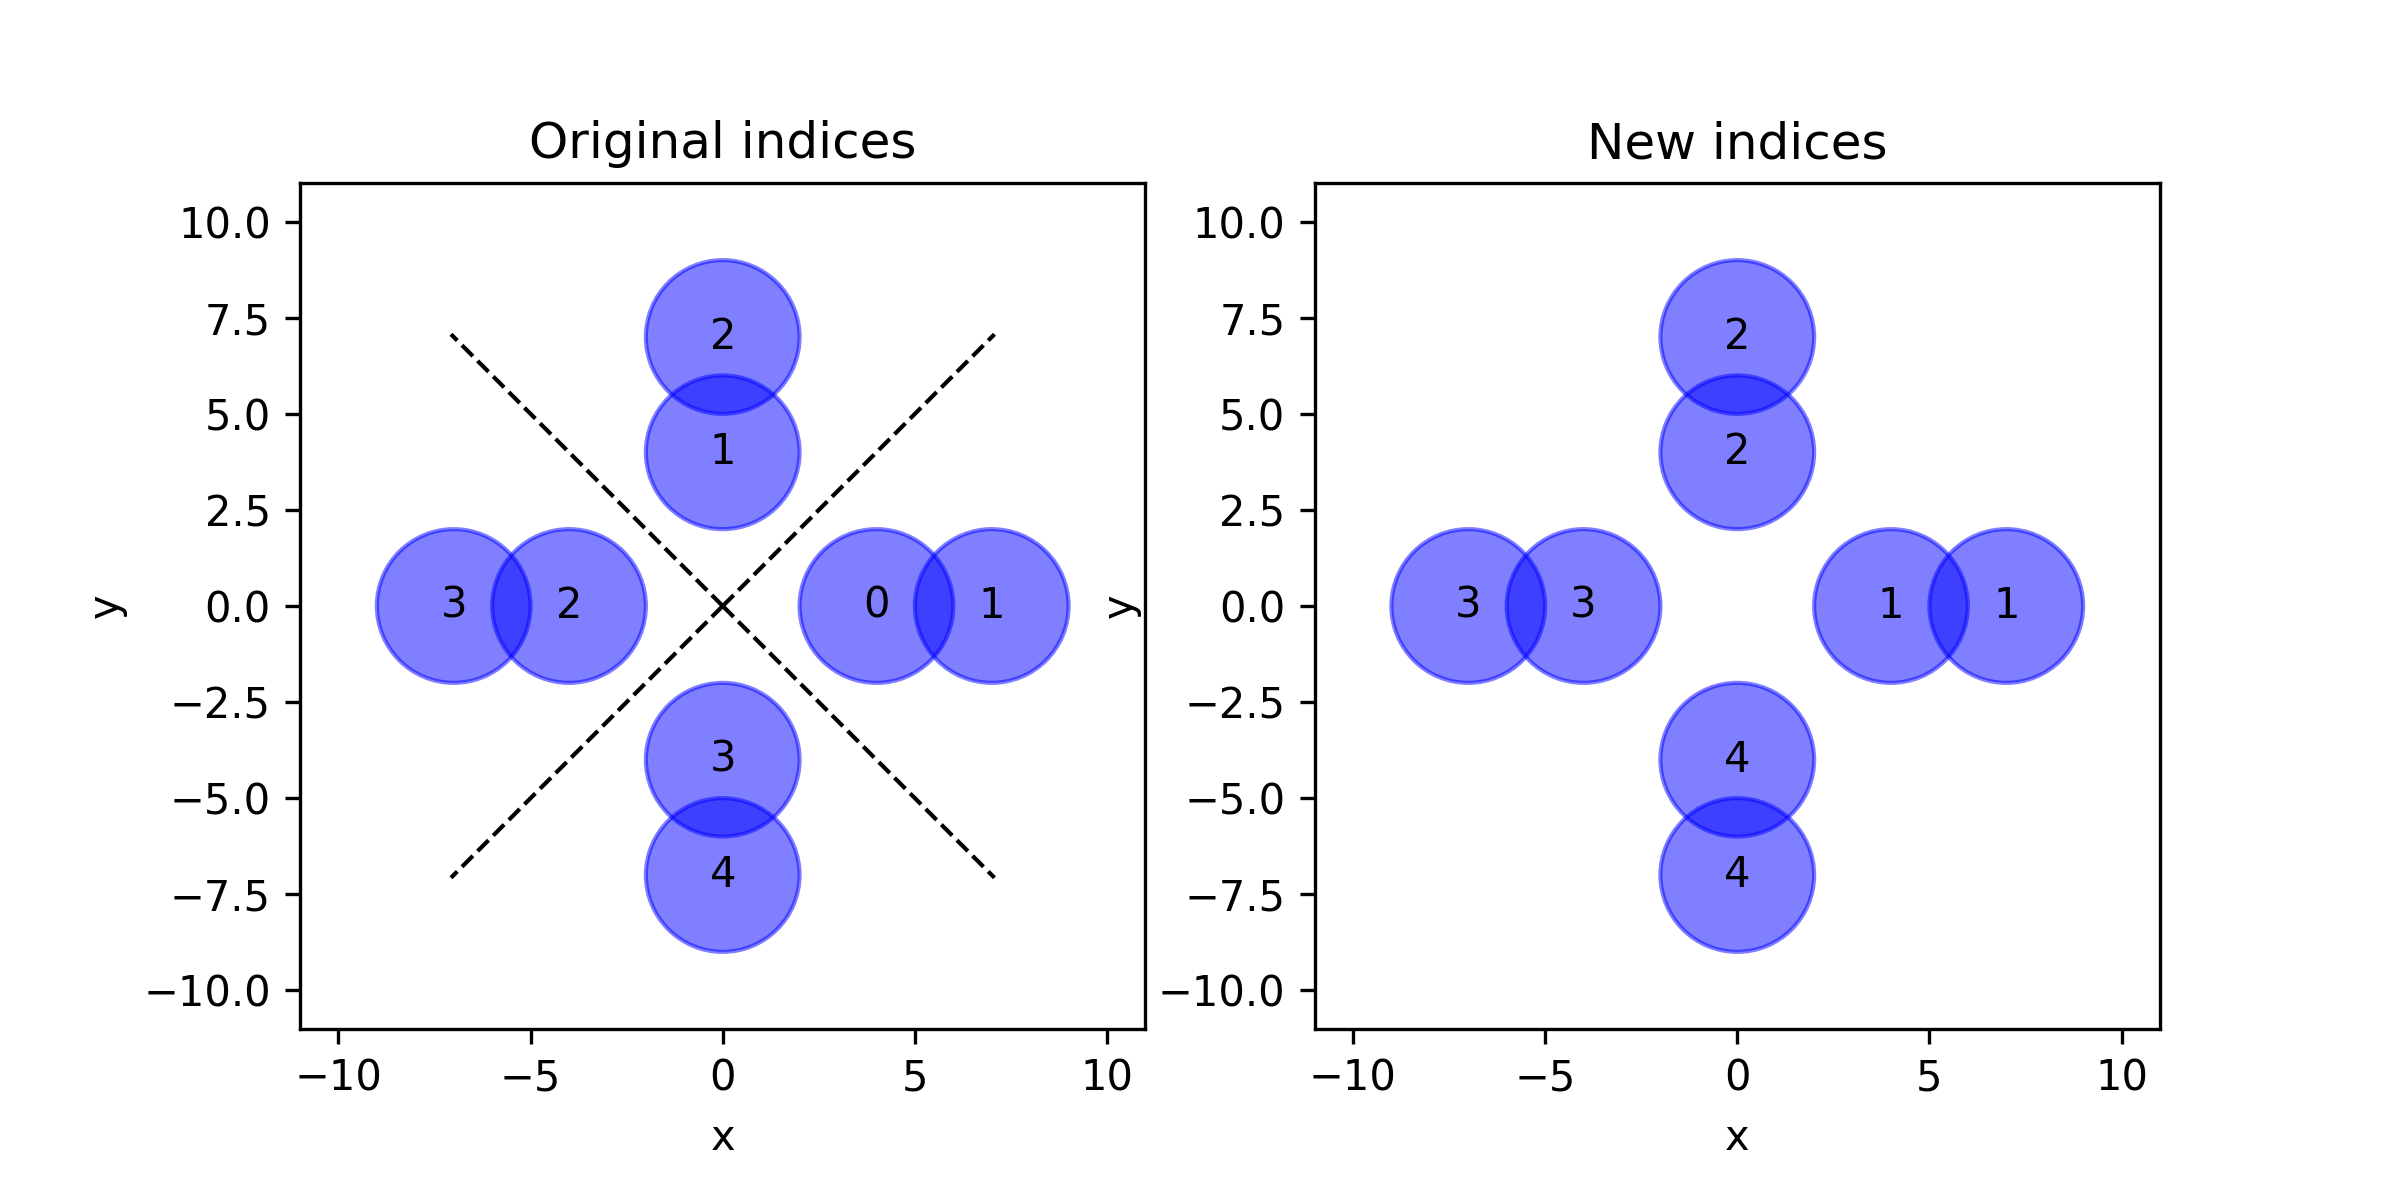
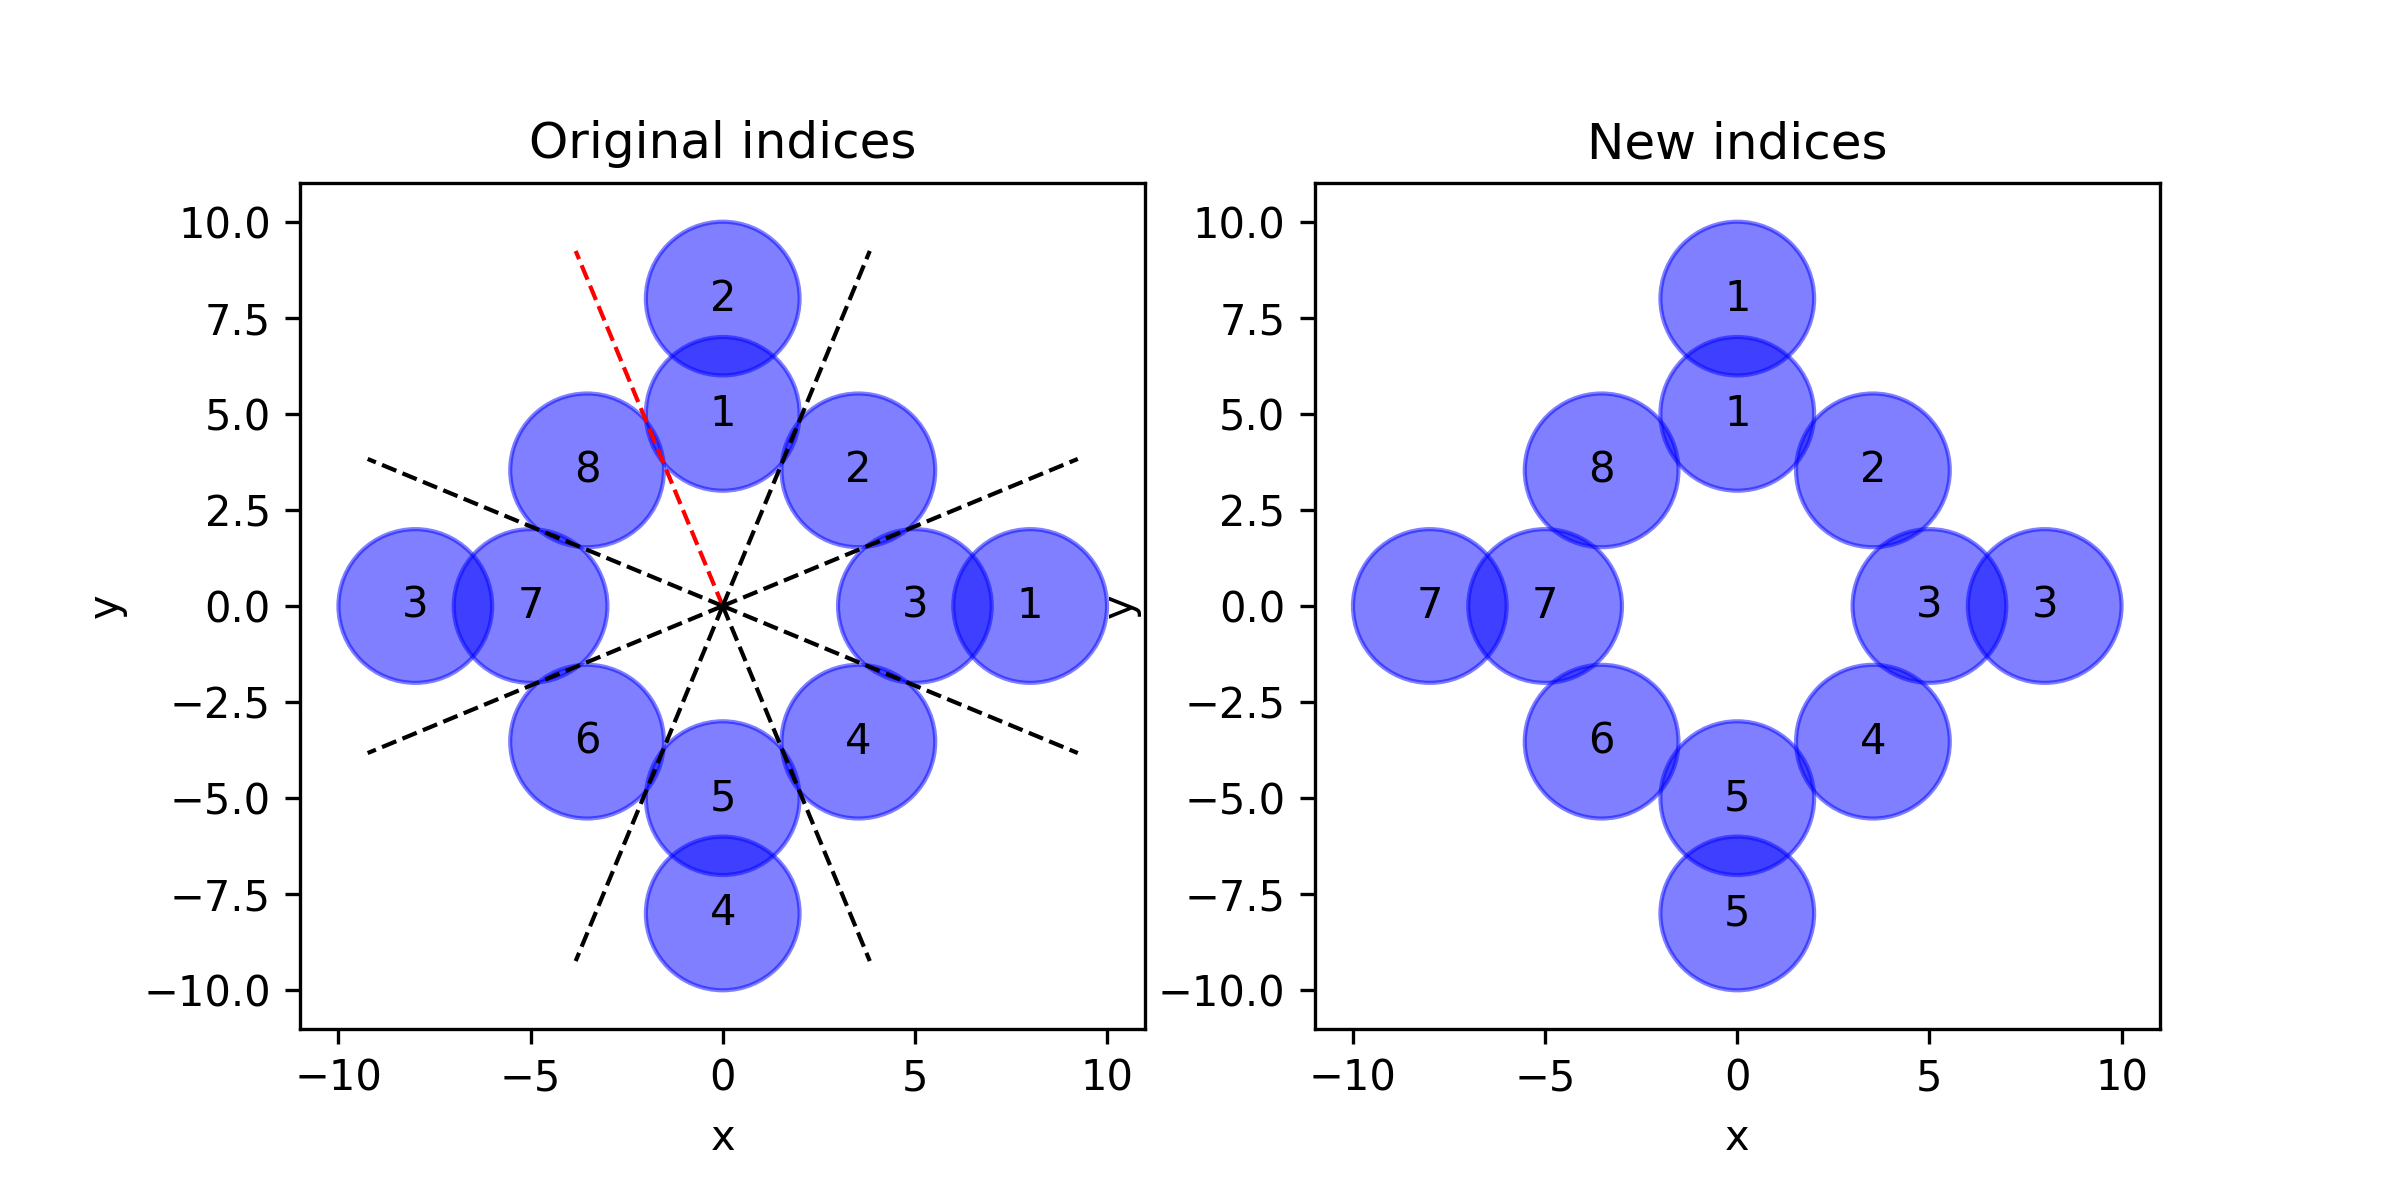
ryan comments

Changed region(s): [[0.125, 0.185, 0.4688, 0.8325], [0.5625, 0.185, 0.9062, 0.8325]]

diff --git a/aopy/utils/base.py b/aopy/utils/base.py
@@ -913,13 +913,15 @@ def scale_data_by_p_value(data, p, k=100, p0=0.08):
     w = 1. / (1. + np.exp(-k * (p0 - p)))
     return data * w
 
-def bin_vectors(vectors, start_angle=-np.pi/4, bins=4):
+def digitize_by_angle(vectors, start_angle=np.pi/4, clockwise=True, bins=4):
     '''
     Bin 2D vectors into angular bins.
 
     Args:
         vectors (ntarg): List or array of 2D vectors.
         start_angle (float, optional): Starting angle for binning in radians. Default is -pi/4.
+        clockwise (bool, optional): If True, bins are assigned in clockwise order. The
+            first bin is ahead of the start angle in this direction. Default is True.
         bins (int, optional): Number of angular bins. Default is 4.
 
     Returns:
@@ -928,20 +930,26 @@ def bin_vectors(vectors, start_angle=-np.pi/4, bins=4):
     vectors = np.array(vectors)
     angles = np.arctan2(vectors[:,1], vectors[:,0])
     angles = (angles - start_angle) % (2 * np.pi) - np.pi
+    if clockwise:
+        angles = -angles
     bin_edges = np.linspace(-np.pi, np.pi, bins+1)
     return np.digitize(angles, bin_edges)
 
-def reindex_targets(target_locations, target_idxs, start_angle=-np.pi/4, bins=4, debug=True):
+def reindex_targets(target_locations, target_idxs, start_angle=5*np.pi/8, 
+                    clockwise=True, bins=8, debug=True):
     '''
-    Reindex target indices based on their angular location.
+    Reindex target indices based on their angular location. Default behavior
+    is to place target 1 at the top and index a total of 8 targets clockwise.
     
     Args:
         target_locations (ntarg, 2): List or array of 2D target locations
         target_idxs (ntarg,): Original target indices
-        start_angle (float, optional): Starting angle for binning in radians. Default is -
-        bins (int, optional): Number of angular bins. Default is 4.
-        debug (bool, optional): If True, plot the original and new target indices. Default
-        
+        start_angle (float, optional): Starting angle for binning in radians. Default is -3pi/4.
+        clockwise (bool, optional): If True, bins are assigned in clockwise order. The
+            first bin is ahead of the start angle in this direction. Default is True.
+        bins (int, optional): Number of angular bins. Default is 8.
+        debug (bool, optional): If True, plot the original and new target indices. Default is True.
+
     Returns:
         (ntarg,) int: Array of new bin indices corresponding to each target location.
     
@@ -952,14 +960,26 @@ def reindex_targets(target_locations, target_idxs, start_angle=-np.pi/4, bins=4,
         
         .. code-block:: python
         
-            target_locations = np.array([[4,0], [0,4], [-4,0], [0,-4],
-                                    [7,0], [0,7], [-7,0], [0,-7]])
-            target_idxs = np.array([0,1,2,3,1,2,3,4])
-            reindex_targets(target_locations, target_idxs, start_angle=-np.pi/4, bins=4)
+            target_locations = [[5,0], [3.53, 3.53], [0,5], [-3.53,3.53],
+                                        [-5,0], [-3.53,-3.53], [0,-5], [3.53,-3.53],
+                                        [8,0], [0,8], [-8,0], [0,-8]]
+            target_idxs = np.array([3,2,1,8,7,6,5,4,1,2,3,4])
+            reindex_targets(target_locations, target_idxs)
 
         .. image:: _images/test_reindex_targets.png
+
+        .. code-block:: python
+        
+            target_locations = [[4,0], [0,4], [-4,0], [0,-4],
+                                        [7,0], [0,7], [-7,0], [0,-7]]
+            target_idxs = np.array([0,1,2,3,1,2,3,4])
+            reindex_targets(target_locations, target_idxs, 
+                            start_angle=np.pi/4, clockwise=False, bins=4)
+
+        .. image:: _images/test_reindex_targets_ccw.png
     '''
-    new_idx = bin_vectors(target_locations, start_angle=start_angle, bins=bins)
+    new_idx = digitize_by_angle(target_locations, start_angle=start_angle, 
+                                clockwise=clockwise, bins=bins)
     if debug:
         plt.figure(figsize=(8,4))
         
@@ -968,7 +988,6 @@ def reindex_targets(target_locations, target_idxs, start_angle=-np.pi/4, bins=4,
         visualization.plot_targets(target_locations, target_radius=2, bounds=(-10,10,-10,10))
         locs = np.array([np.array(t) for t in target_locations])
         target_locs_and_idx = np.hstack([locs, np.array(target_idxs).reshape(-1,1)])
-        print(target_locs_and_idx)
         unique_targs = np.unique(target_locs_and_idx, axis=0)
         for idx in range(len(unique_targs)):
             plt.text(*unique_targs[idx][:2], int(unique_targs[idx][-1]), fontsize=10, ha='center', va='center')
@@ -976,15 +995,18 @@ def reindex_targets(target_locations, target_idxs, start_angle=-np.pi/4, bins=4,
 
         # Vector bins
         for idx in range(bins):
-            angle = start_angle + (2*np.pi/bins)*idx
-            plt.plot([0, 10*np.cos(angle)], [0, 10*np.sin(angle)], 'k--', linewidth=1)
+            if clockwise:
+                angle = start_angle - (2*np.pi/bins)*idx
+            else:
+                angle = start_angle + (2*np.pi/bins)*idx
+            plt.plot([0, 10*np.cos(angle)], [0, 10*np.sin(angle)], 
+                     'k--' if idx > 0 else 'r--', linewidth=1)
 
         # New indices
         plt.subplot(1,2,2)
         visualization.plot_targets(target_locations, target_radius=2, bounds=(-10,10,-10,10))
         locs = np.array([np.array(t) for t in target_locations])
         target_locs_and_idx = np.hstack([locs, new_idx.reshape(-1,1)])
-        print(target_locs_and_idx)
         unique_targs = np.unique(target_locs_and_idx, axis=0)
         for idx in range(len(unique_targs)):
             plt.text(*unique_targs[idx][:2], int(unique_targs[idx][-1]), fontsize=10, ha='center', va='center')

diff --git a/tests/test_utils.py b/tests/test_utils.py
@@ -473,13 +473,25 @@ class TestMath(unittest.TestCase):
         aopy.visualization.savefig(docs_dir, "scale_by_p_value.png", transparent=False)
 
     def test_reindex_targets(self):
-        target_locations = np.array([[4,0], [0,4], [-4,0], [0,-4],
-                                     [7,0], [0,7], [-7,0], [0,-7]])
-        target_idxs = np.array([0,1,2,3,1,2,3,4])
-        reindex_targets(target_locations, target_idxs, start_angle=-np.pi/4, bins=4)
+        target_locations = [[5,0], [3.53, 3.53], [0,5], [-3.53,3.53],
+                                    [-5,0], [-3.53,-3.53], [0,-5], [3.53,-3.53],
+                                    [8,0], [0,8], [-8,0], [0,-8]]
+        target_idxs = np.array([3,2,1,8,7,6,5,4,1,2,3,4])
+        reindex_targets(target_locations, target_idxs)
 
         filename = 'test_reindex_targets.png'
         aopy.visualization.savefig(docs_dir, filename, transparent=False)
+
+
+        target_locations = [[4,0], [0,4], [-4,0], [0,-4],
+                                     [7,0], [0,7], [-7,0], [0,-7]]
+        target_idxs = np.array([0,1,2,3,1,2,3,4])
+
+        reindex_targets(target_locations, target_idxs, 
+                        start_angle=np.pi/4, clockwise=False, bins=4)
+        filename = 'test_reindex_targets_ccw.png'
+        aopy.visualization.savefig(docs_dir, filename, transparent=False)
+
 
 class MemoryTests(unittest.TestCase):
 
